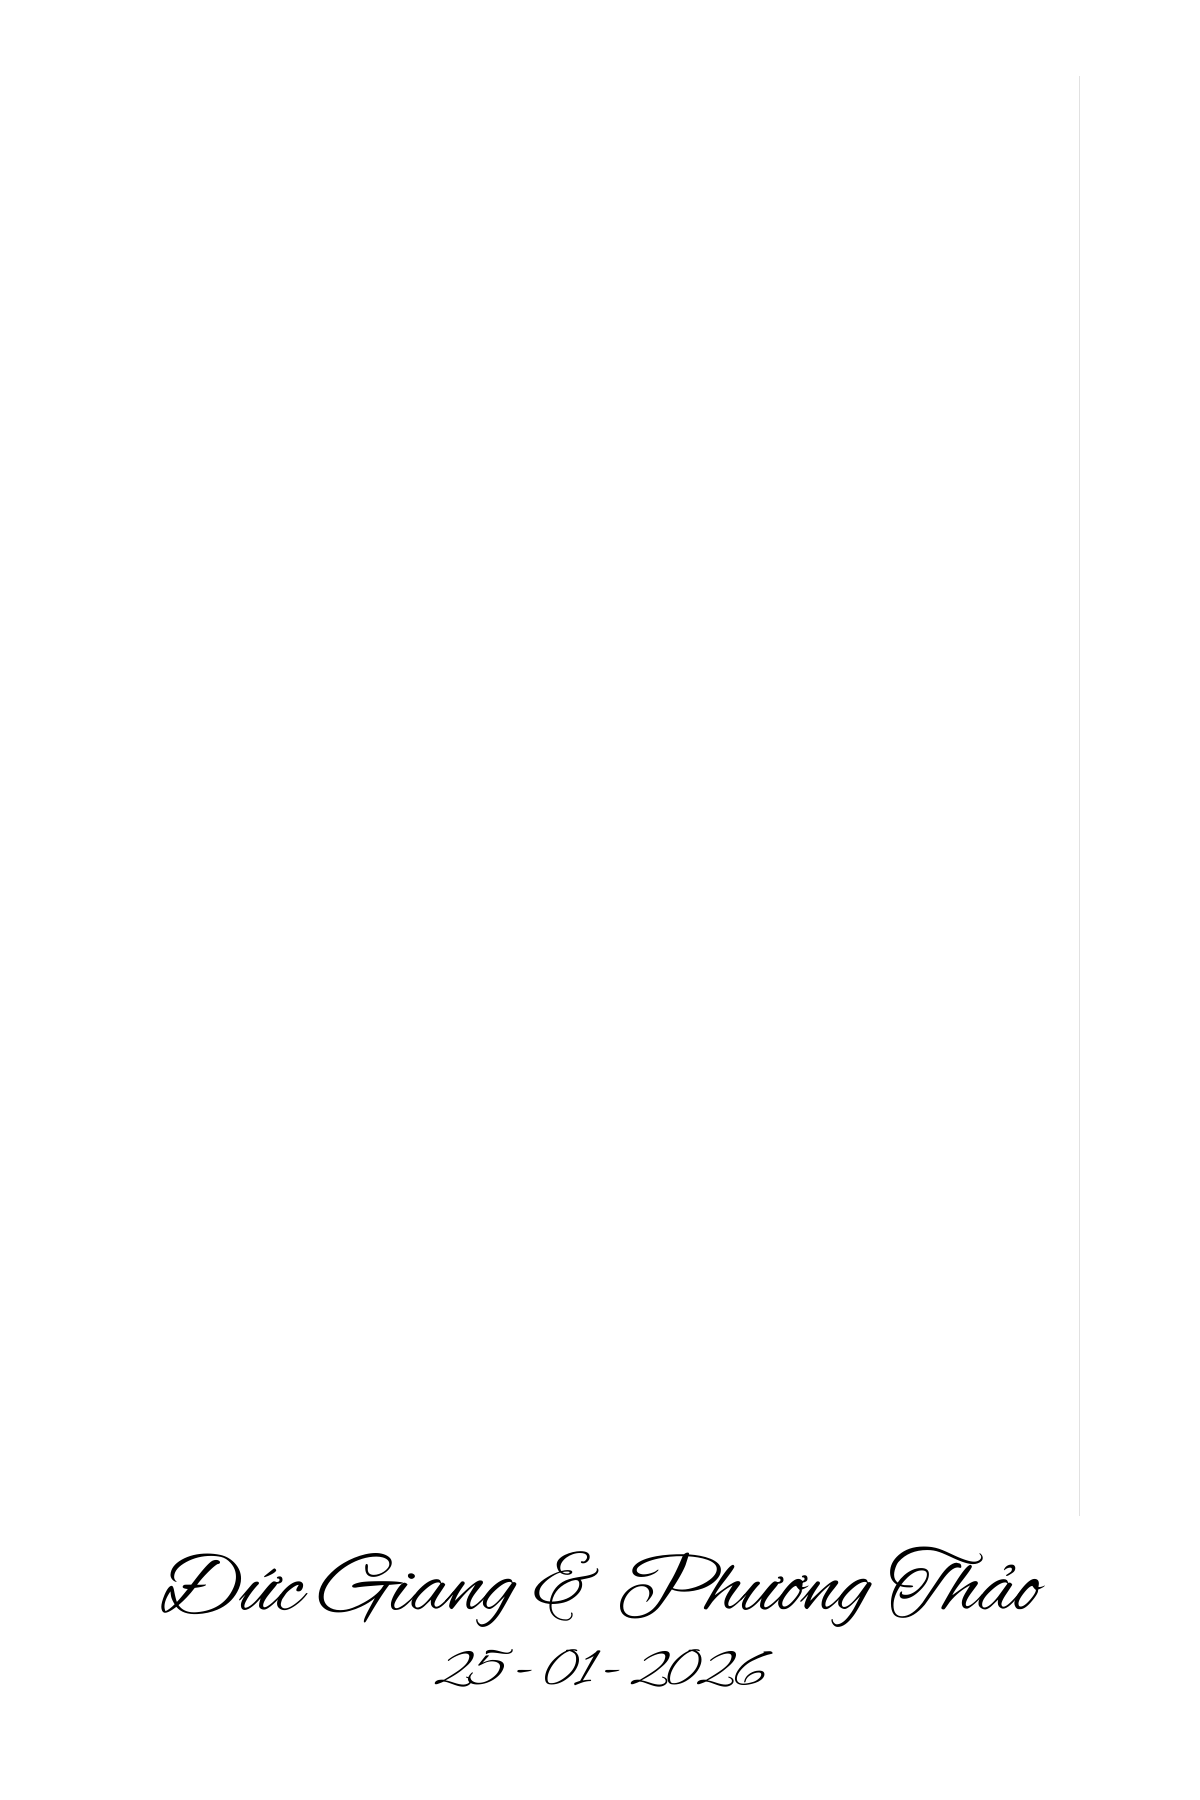
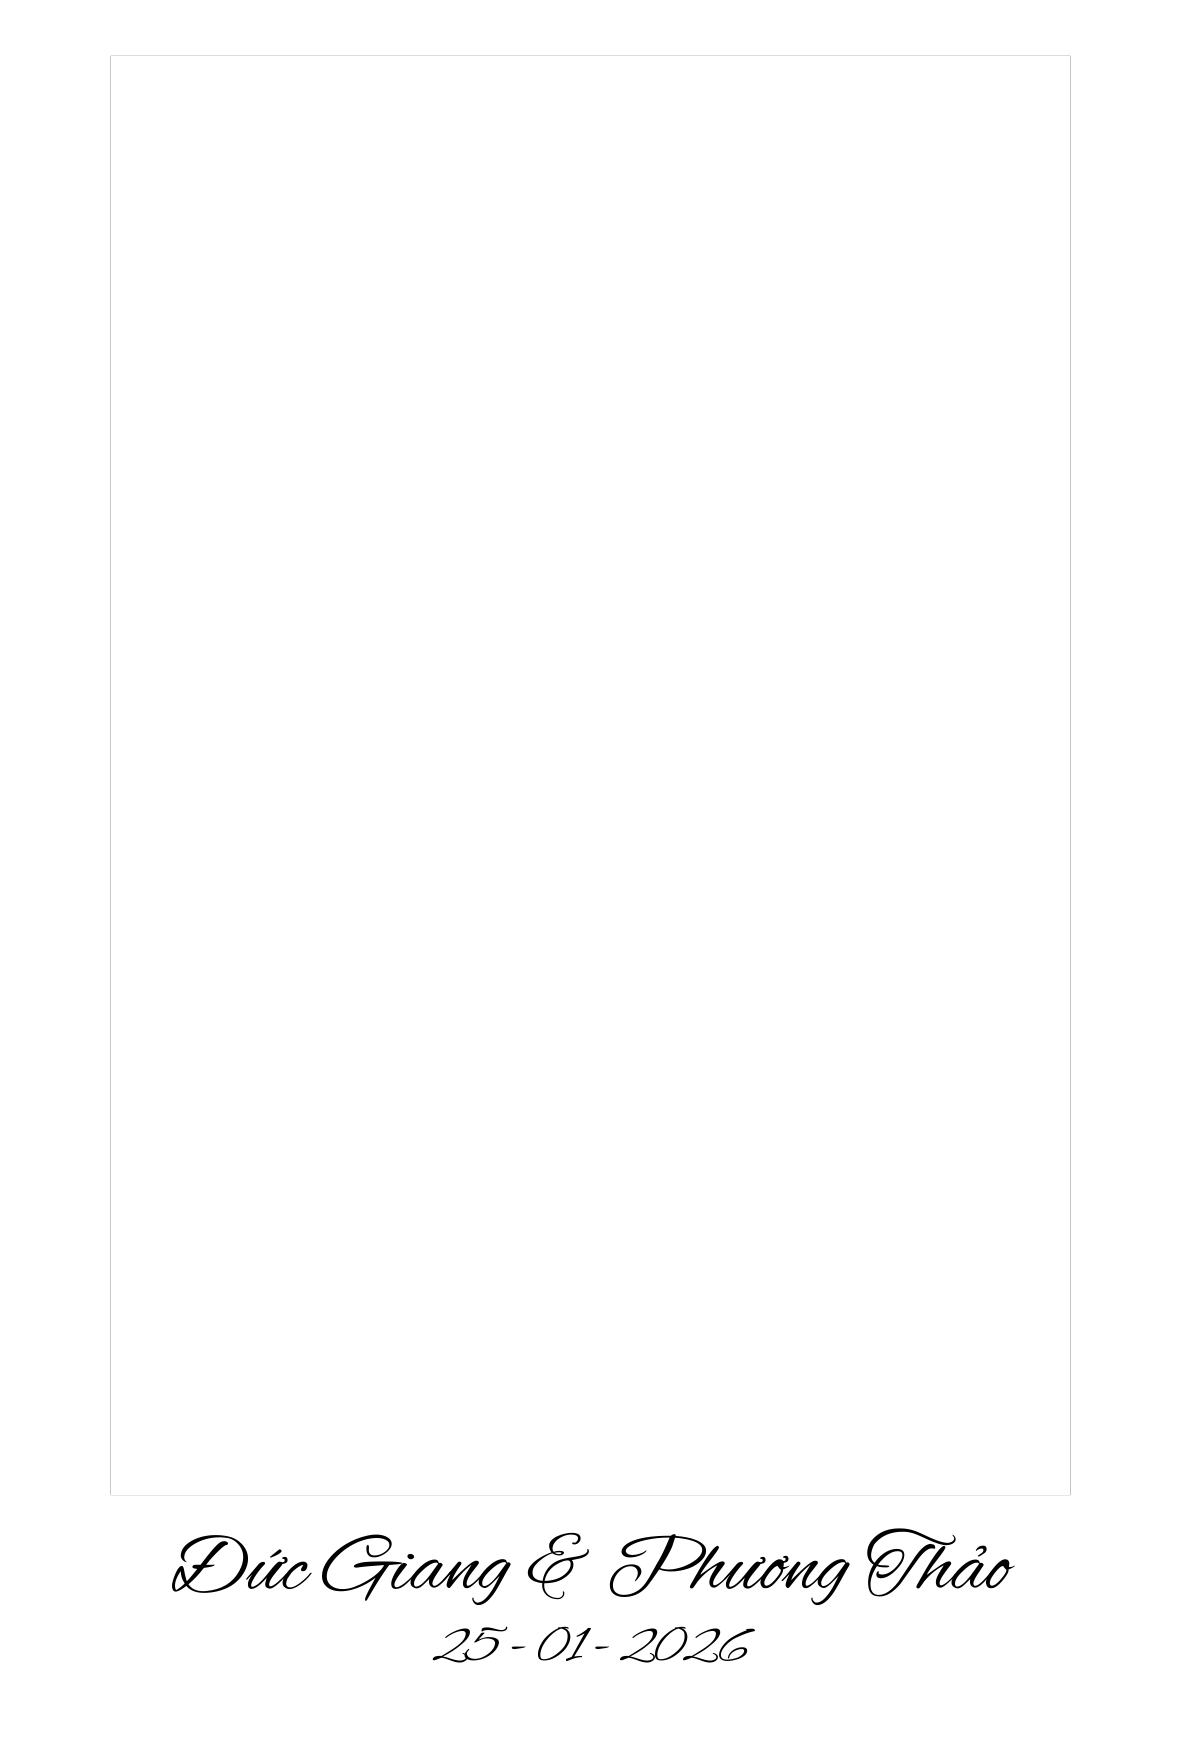
update

Changed region(s): [[0.1219, 0.865, 0.884, 0.9577]]

diff --git a/lib/core/web/view_photobooth/view_2x4.dart b/lib/core/web/view_photobooth/view_2x4.dart
@@ -18,7 +18,7 @@ class _View2x4State extends State<View2x4> {
     return RepaintBoundary(
       key: widget.repaintKey,
       child: AspectRatio(
-        aspectRatio: 2 / 3,
+        aspectRatio: 25 / 37,
         child: Container(
           decoration: BoxDecoration(
             color: Colors.grey[900],
@@ -46,15 +46,15 @@ class _View2x4State extends State<View2x4> {
     int currentIndex = widget.photos.indexWhere((photo) => photo != null);
     return Container(
       alignment: Alignment.topCenter,
-      padding: const EdgeInsets.only(top: 16),
       decoration: BoxDecoration(
         color: Colors.red,
       ),
       child: GridView.builder(
+        padding: const EdgeInsets.only(top: 6, left: 4, right: 4),
         physics: const NeverScrollableScrollPhysics(),
         gridDelegate: const SliverGridDelegateWithFixedCrossAxisCount(
           crossAxisCount: 2,
-          childAspectRatio: 159 / 105,
+          childAspectRatio: 3 / 2,
           crossAxisSpacing: 0,
           mainAxisSpacing: 0,
         ),

diff --git a/lib/core/web/photo_cell_web.dart b/lib/core/web/photo_cell_web.dart
@@ -16,7 +16,6 @@ class PhotoCellWeb extends StatelessWidget {
     // Ô đã chụp
     if (photoBytes != null) {
       return ClipRRect(
-        borderRadius: BorderRadius.circular(8),
         child: Image.memory(
           photoBytes!,
           fit: BoxFit.cover,
@@ -29,7 +28,6 @@ class PhotoCellWeb extends StatelessWidget {
       return Container(
         decoration: BoxDecoration(
           color: Colors.black.withOpacity(0.5),
-          borderRadius: BorderRadius.circular(8),
           border: Border.all(
             color: const Color(0xFFFF1493),
             width: 2,
@@ -49,7 +47,6 @@ class PhotoCellWeb extends StatelessWidget {
     return Container(
       decoration: BoxDecoration(
         color: Colors.black.withOpacity(0.25),
-        borderRadius: BorderRadius.circular(8),
       ),
     );
   }

diff --git a/lib/core/web/view_photobooth/view_1x1.dart b/lib/core/web/view_photobooth/view_1x1.dart
@@ -18,7 +18,7 @@ class _View1x1State extends State<View1x1> {
     return RepaintBoundary(
       key: widget.repaintKey,
       child: AspectRatio(
-        aspectRatio: 2 / 3,
+        aspectRatio: 25 / 37,
         child: Container(
           decoration: BoxDecoration(
             color: Colors.grey[900],

diff --git a/lib/core/web/view_photobooth/view_1x2.dart b/lib/core/web/view_photobooth/view_1x2.dart
@@ -18,7 +18,7 @@ class _View1x2State extends State<View1x2> {
     return RepaintBoundary(
       key: widget.repaintKey,
       child: AspectRatio(
-        aspectRatio: 2 / 3,
+        aspectRatio: 25 / 37,
         child: Container(
           decoration: BoxDecoration(
             color: Colors.grey[900],
